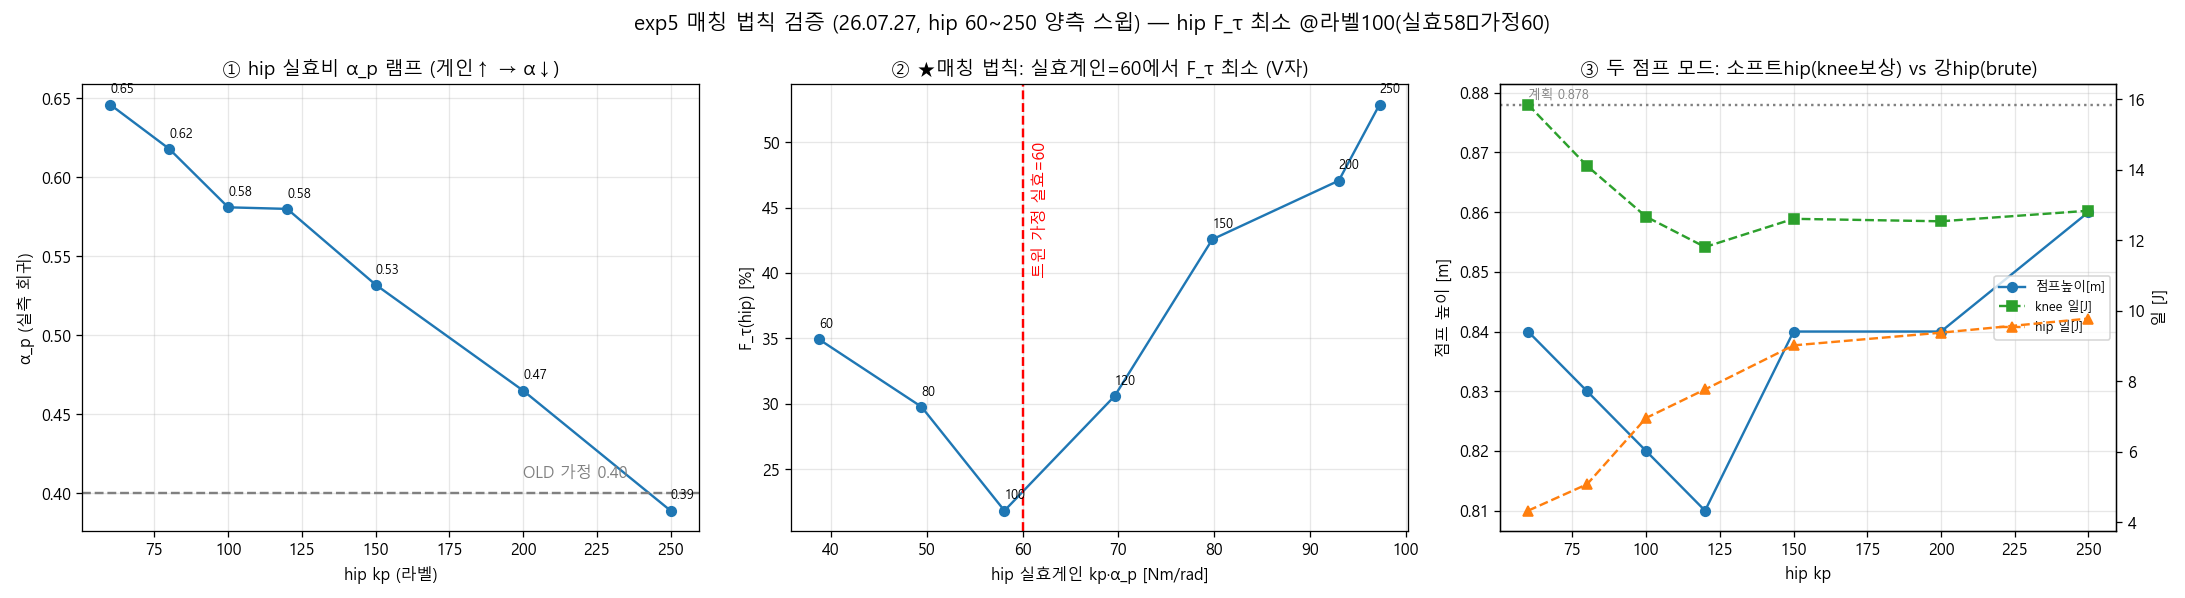
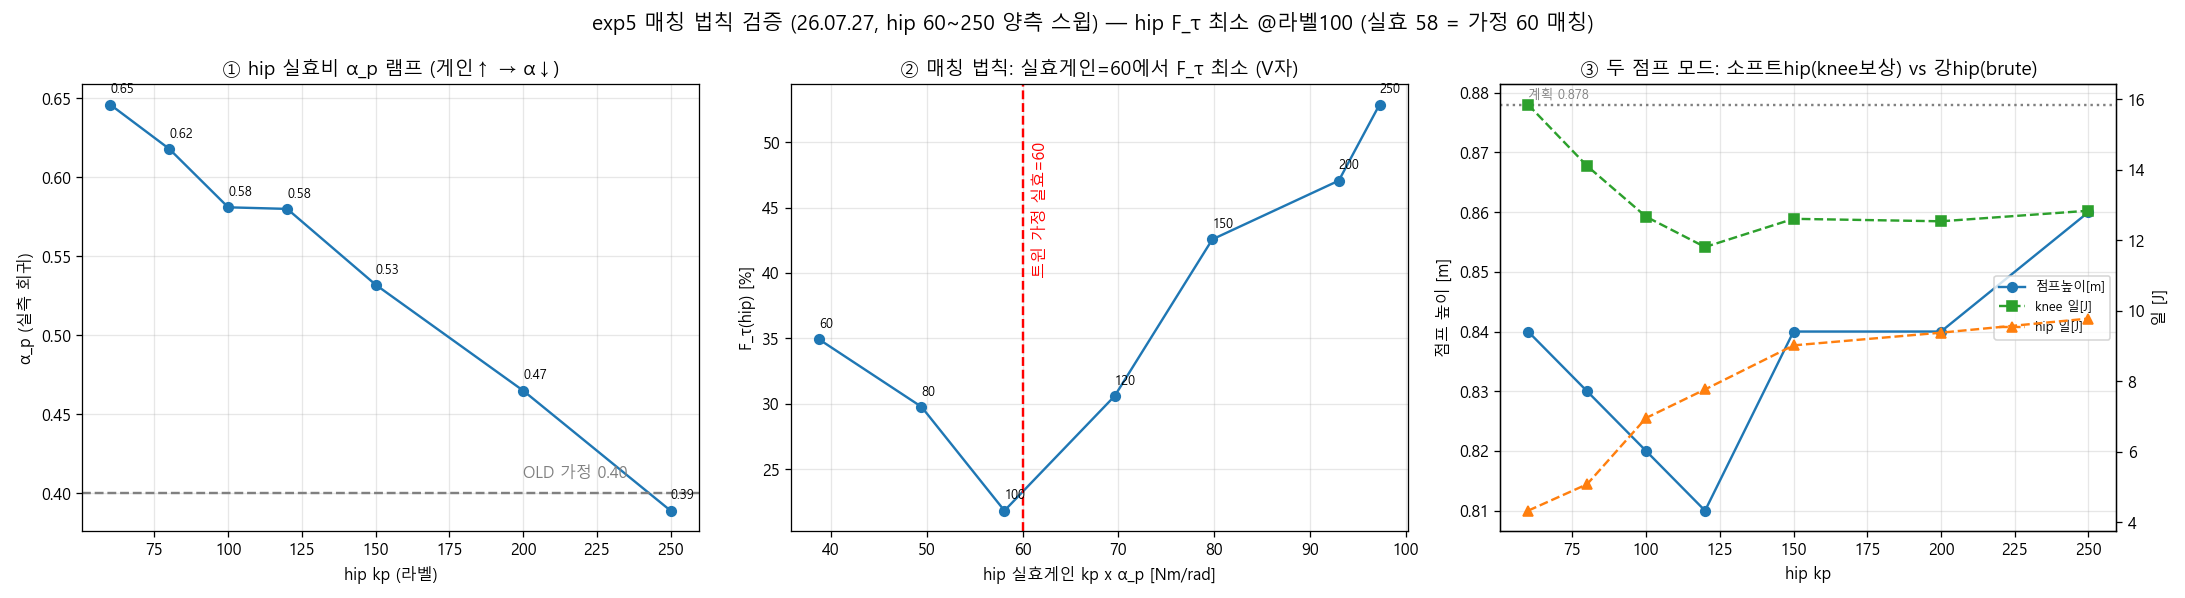
그래프 깨진 글자 수정(≈·k̂ 합성문자 → k_s 표기, modea_sea_verify+matching_law 재생성) + 노션 ⑮ 삼중수렴 상세 해설(드라이버 비유·직렬합성 공식·독립성 표·knee 약한 이유·물리 위치 후보·τ-fidelity 의미)
Claude-Session: https://claude.ai/code/session_018tXRZDWy9RG1Z1qWD21UNo

Changed region(s): [[0.2801, 0.0, 0.7469, 0.0602], [0.4046, 0.0903, 0.5913, 0.1505], [0.4357, 0.9331, 0.5602, 0.9933]]

diff --git a/code/goal22/p25_task0/exp5_modea_sea.py b/code/goal22/p25_task0/exp5_modea_sea.py
@@ -79,10 +79,10 @@ fig, ax = plt.subplots(1, 3, figsize=(19, 5.4))
 lab0 = "150_2.2_250_3"
 if lab0 in R:
     d = R[lab0]; ks = d["hip"]["k_hat"]
-    ax[0].plot(d["tgm"], d["e1"], label="e1 = 측정 − ModeA [°]")
+    ax[0].plot(d["tgm"], d["e1"], label="e1 = 측정 - ModeA [°]")
     ax[0].plot(d["tgm"], np.degrees(np.array(d["a1"])/ks*np.sign(d["hip"]["slope"])), "--",
-               label=f"â1/k̂ (k̂={ks:.0f} Nm/rad)")
-    ax[0].set_title(f"① {lab0}: Mode A hip 오차 vs 토크/k̂ (r={d['hip']['r']:+.2f})")
+               label=f"a1/k_s (k_s={ks:.0f} Nm/rad)")
+    ax[0].set_title(f"① {lab0}: Mode A hip 오차 vs 토크/k_s (r={d['hip']['r']:+.2f})")
     ax[0].set_xlabel("t [s]"); ax[0].legend(fontsize=9)
 allA = np.concatenate([np.array(R[g]["a1"]) for g in R])
 allE = np.concatenate([np.array(R[g]["e1"]) for g in R])
@@ -91,15 +91,15 @@ bp = np.polyfit(allA, allE, 1)
 xs = np.linspace(allA.min(), allA.max(), 50)
 ax[1].plot(xs, np.polyval(bp, xs), lw=2)
 kpool = 1/abs(np.radians(bp[0]))
-ax[1].set_title(f"② 풀드 (7게인): e1 vs â1 — k̂_pool={kpool:.0f} Nm/rad, r={np.corrcoef(allA,allE)[0,1]:+.2f}")
+ax[1].set_title(f"② 풀드 (7게인): e1 vs a1 — k_s(풀드)={kpool:.0f} Nm/rad, r={np.corrcoef(allA,allE)[0,1]:+.2f}")
 ax[1].set_xlabel("â1 [Nm]"); ax[1].set_ylabel("e1 [°]")
 kps = [R[g]["hipkp"] for g in R]
 r0 = [R[g]["hip"]["rms_deg"] for g in R]; r1_ = [R[g]["hip"]["rms_corr_deg"] for g in R]
 w = 8
 ax[2].bar([k-w/2 for k in kps], r0, width=w, label="Mode A hip RMSE [°]")
-ax[2].bar([k+w/2 for k in kps], r1_, width=w, label="τ/k̂ 보정 후 [°]")
+ax[2].bar([k+w/2 for k in kps], r1_, width=w, label="τ/k_s 보정 후 [°]")
 ax[2].set_title("③ 탄성 보정 후 Mode A hip 오차"); ax[2].set_xlabel("hip kp"); ax[2].legend(fontsize=9)
 for a_ in ax: a_.grid(alpha=.3)
-fig.suptitle("Mode A 검증 — hip 직렬탄성 가설 (e1 ≈ â1/k_s?)", fontsize=13)
+fig.suptitle("Mode A 검증 — hip 직렬탄성 가설 (오차 e1 = 토크/k_s 인가?)", fontsize=13)
 fig.tight_layout(); fig.savefig(OUT/"modea_sea_verify.png", dpi=115)
 print("done →", OUT/"modea_sea_verify.png")
